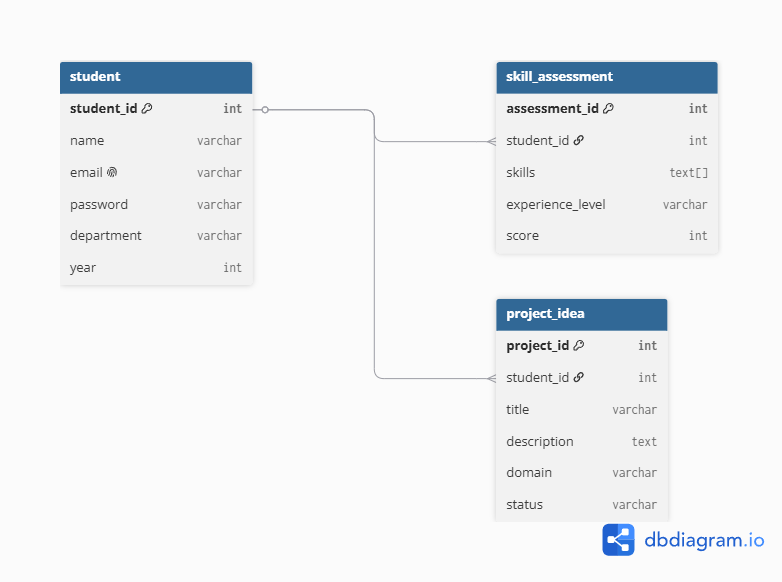
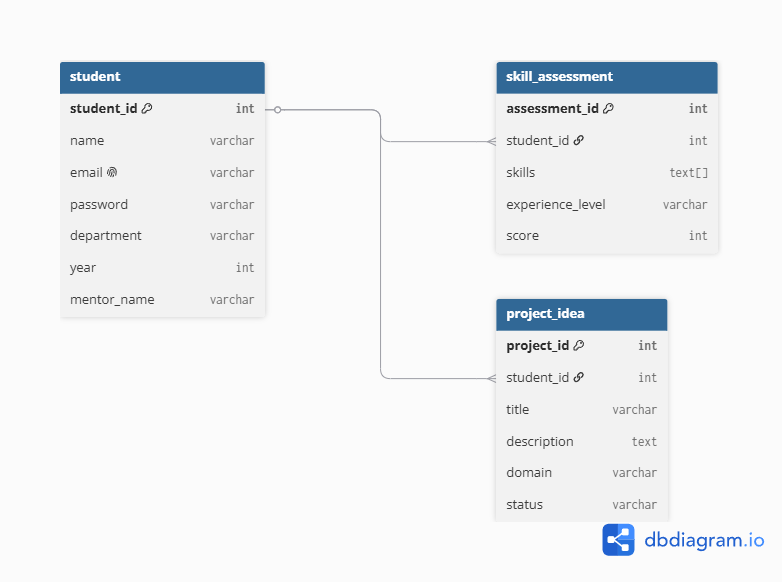
Fix: added mentor_name column to student table

diff --git a/backend/docs/README.md b/backend/docs/README.md
@@ -11,6 +11,7 @@
 | password | VARCHAR | Hashed password |
 | department | VARCHAR | Student's department |
 | year | INT | Academic year |
+| mentor_name | VARCHAR | Name of the student's assigned mentor |
 
 ### skill_assessment
 | Column | Type | Description |